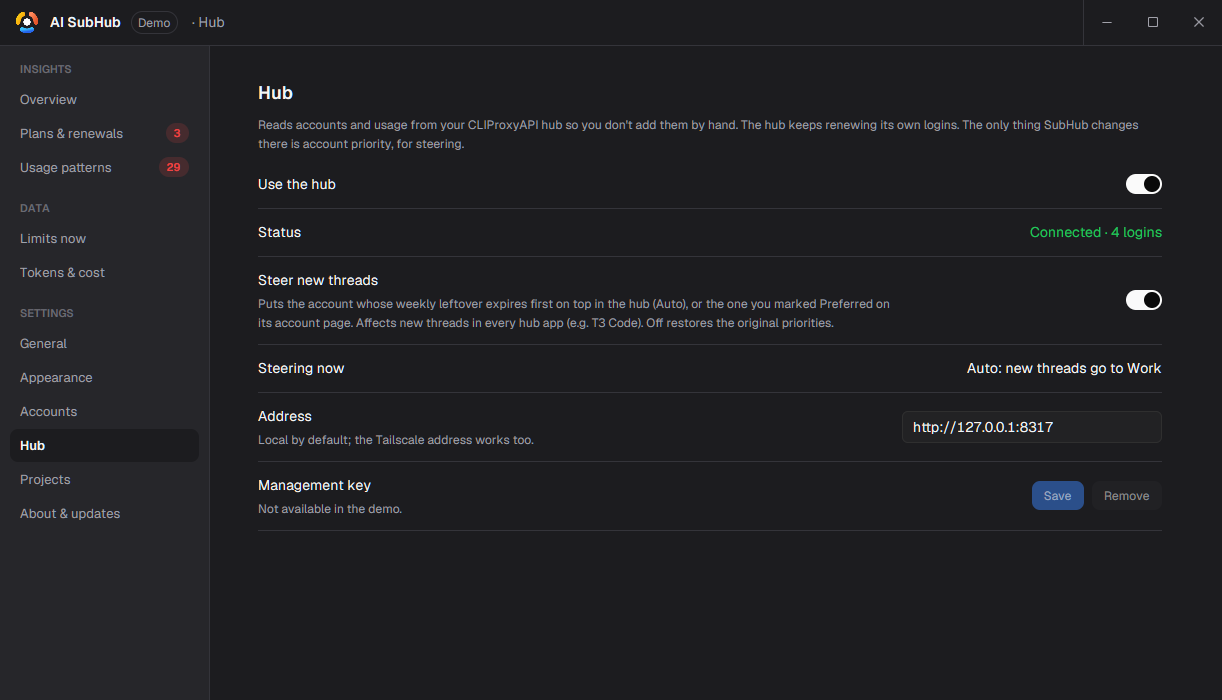
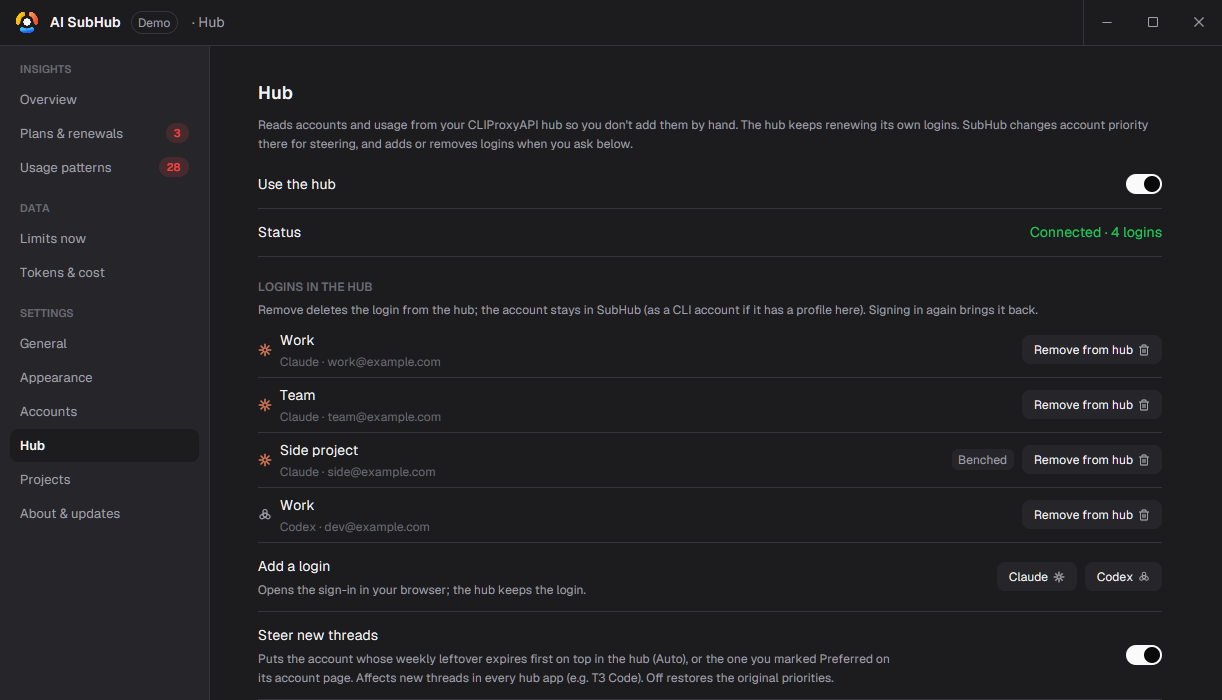
README: new providers and hub logins, fresh screenshots

diff --git a/README.md b/README.md
@@ -23,13 +23,14 @@ AI SubHub shows the usage limits of all your **Claude Code** and **Codex** accou
 - **All limits in one popover.** Click the tray icon for one card per account, with a bar per window, % left (or % used) and the reset time. Stale readings, cooldowns and sign-in problems are shown, not hidden.
 - **Usage on the taskbar.** Small badges next to the tray show up to five accounts at all times (favourites, the one in focus, or automatic), on the main or every taskbar. Hover one for all its limits; drag it to move it. You can switch it off in Appearance.
 - **Several accounts per provider.** Each CLI profile is its own account, with a name, a coloured tag, a plan badge and an optional group. SubHub finds the profiles on your PC and offers to add them.
+- **More than Claude and Codex.** GitHub Copilot (monthly premium requests or AI credits), Cursor (the plan's weekly or monthly usage, Auto and API) and Google Antigravity (5-hour and weekly limits per model group) show up next to them, read from the login already on your PC. For now these three show limits only.
 - **Launch by account and project.** The rocket on a card opens a project folder in Windows Terminal, PowerShell, VS Code or the provider's desktop app, signed in as that account.
 - **Insights.** Whether your plans fit how you work (too big, at the limit, unused), how often you waited for a 5-hour reset while another account was free, upcoming renewals, and where your usage goes by task, project and model.
 - **Warm-up (optional).** Start your 5-hour windows early at a time you choose, so the first reset comes when you usually run out. SubHub suggests a time from your own days; nothing runs until you set it up.
 - **Heads-up before you run out (optional).** A notification about 15 minutes before an account's 5-hour window runs out, when another account still has a fresh one.
 - **Usage statistics.** Tokens and an API cost estimate per day, model and provider, read from the CLIs' local session logs, plus a live board of all limits.
 - **Renewal reminders.** Optionally enter an account's monthly renewal or access end date to get a reminder 7 and 3 days before.
-- **Hub support (optional).** If you run a [CLIProxyAPI](https://github.com/router-for-me/CLIProxyAPI) hub, SubHub lists its logins by itself and can steer new hub threads to the account whose weekly limit expires soonest, or to one you pick.
+- **Hub support (optional).** If you run a [CLIProxyAPI](https://github.com/router-for-me/CLIProxyAPI) hub, SubHub lists its logins by itself, lets you remove one or sign in a new Claude or Codex login there, and can steer new hub threads to the account whose weekly limit expires soonest, or to one you pick.
 - **Updates itself** from GitHub Releases, automatically or when you say so, and shows short patch notes afterwards.
 
 ## The main window
@@ -50,12 +51,16 @@ Open **Statistics** or **Settings** from the tray menu or the popover. Both open
 
 **Data**
 
-- **Limits now:** a live board of every account's session and weekly windows, with % left, reset countdowns and pace. It is useful for picking the account with the most room before a long task.
+- **Limits now:** a live board of every account's windows (5-hour, weekly, monthly and model limits), with % left, reset countdowns and pace. It is useful for picking the account with the most room before a long task.
 - **Tokens & cost:** work tokens (input and output) and an API cost estimate for the past 24 hours or 7, 30 or 90 days, split into input, output and cache, with a daily chart per provider and a table per model. The estimate uses public list prices and shows what the same work would cost on the API, not what you pay for your plan.
 
 | | |
 | --- | --- |
 | ![Limits now: a live board of every account's windows](docs/images/demo-statistics-limits.png) | ![Tokens & cost: work tokens, API estimate, cost by type and a daily chart per provider](docs/images/demo-statistics-usage.png) |
+
+<p align="center">
+  <img src="docs/images/demo-more-providers.png" width="680" alt="Limits now for GitHub Copilot (monthly AI credits), Cursor (weekly, Auto and API) and Google Antigravity (5-hour)">
+</p>
 
 **Export** (the download button in the title bar):
 
@@ -67,15 +72,15 @@ Open **Statistics** or **Settings** from the tray menu or the popover. Both open
 
 - **General:** refresh interval, Warm-up status, the run-out heads-up, what the close button does, Start with Windows, and (under Advanced) the sign-in terminal and CLI paths.
 - **Appearance:** theme, accent colour, % left or % used, plan badges, emails, and the taskbar badges (which accounts, left or right).
-- **Accounts:** all accounts by provider with their source and status. Open an account to rename it, change its tag colour and group, show it on the taskbar, set its renewal date, or sign in again. **Add accounts** lists the CLI profiles found on your PC.
-- **Hub:** connect a CLIProxyAPI hub and turn steering for new threads on or off.
+- **Accounts:** all accounts by provider with their source and status. Open an account to rename it, change its tag colour and group, show it on the taskbar, set its renewal date, or sign in again. **Add accounts** lists the CLI profiles and the Copilot, Cursor and Antigravity logins found on your PC.
+- **Hub:** connect a CLIProxyAPI hub, manage its logins (remove one, or sign in a new Claude or Codex login in your browser) and turn steering for new threads on or off. A login removed from the hub stays in SubHub as a normal CLI account if it has a profile on your PC.
 - **Projects:** the folders that appear in every card's Launch menu, in your order, with the option to hide some.
 - **About & updates:** version, update mode (automatic or manual) and the patch notes.
 
 | | |
 | --- | --- |
 | ![Settings, General: refresh, warm-up, the run-out heads-up and the close button](docs/images/demo-settings-general.png) | ![Settings, Accounts: accounts per provider with source and status](docs/images/demo-settings-accounts.png) |
-| ![Settings, Appearance: theme, accent colour, usage display and taskbar badges](docs/images/demo-settings-appearance.png) | ![Settings, Hub: connection status, steering and the hub address](docs/images/demo-settings-hub.png) |
+| ![Settings, Appearance: theme, accent colour, usage display and taskbar badges](docs/images/demo-settings-appearance.png) | ![Settings, Hub: connection status, the hub's logins with Remove, Add a login and steering](docs/images/demo-settings-hub.png) |
 
 ## Get started
 
@@ -83,7 +88,7 @@ Requires **Windows 11** (x64); Windows 10 may work but is untested. macOS and Li
 
 1. Download `ai-subhub.exe` from the [latest release](https://github.com/wellbrained/ai-subhub/releases/latest) and put it in a folder you keep, for example `%LOCALAPPDATA%\Programs\AI SubHub`. There is no installer, and updates replace the exe in place.
 2. Start it. The exe is not code-signed, so Windows SmartScreen may warn you the first time: **More info → Run anyway**.
-3. On the first start, the window opens on **Add accounts** with the Claude Code and Codex profiles found on your PC (`~\.claude*`, `~\.codex*`, `CLAUDE_CONFIG_DIR`, `CODEX_HOME`). Tick the ones you want. A profile in another place can be added with **Choose a folder manually**.
+3. On the first start, the window opens on **Add accounts** with the Claude Code and Codex profiles found on your PC (`~\.claude*`, `~\.codex*`, `CLAUDE_CONFIG_DIR`, `CODEX_HOME`), plus a Copilot, Cursor or Antigravity login if you have one. Tick the ones you want. A profile in another place can be added with **Choose a folder manually**.
 4. Click the tray icon. If an account says *Sign in needed*, use **Sign in** on its card or settings page; the CLI login opens in a terminal, and the account refreshes when it is done.
 
 **Start with Windows** is opt-in (Settings → General). Closing a window keeps SubHub in the tray; quit it from the tray menu.
@@ -133,4 +138,4 @@ Bug reports and focused pull requests are welcome. Please include your Windows v
 
 The app's font is [Geist](https://github.com/vercel/geist-font) by Vercel, under the SIL Open Font License 1.1 ([crates/subhub-app/assets/fonts/OFL.txt](crates/subhub-app/assets/fonts/OFL.txt)).
 
-AI SubHub is an independent project and is not affiliated with Anthropic or OpenAI.
+AI SubHub is an independent project and is not affiliated with Anthropic, OpenAI, GitHub, Cursor (Anysphere) or Google.

diff --git a/CLAUDE.md b/CLAUDE.md
@@ -11,7 +11,7 @@ AI SubHub, a Windows tray app in Rust + GPUI. It started as a rewrite of the ear
 ## Project rules
 
 - Behavior rules match the C# app: secrets stay in provider-owned profiles/keyrings or Credential Manager, never in `settings.json`, logs or errors; missing data means unavailable; failed/overdue readings stay visibly stale; reset countdowns never refill quotas locally; provider cooldowns are respected and persisted; Claude's undocumented usage endpoint is parsed in one isolated module.
-- The CLIProxyAPI hub: list accounts and read usage through its management API (`api-call` with `$TOKEN$`), never its auth files. The only write is hub steering: each account's credential priority (ADR 0001, refinements); remember and restore original priorities. Never bench, add, sign in or change config.
+- The CLIProxyAPI hub: list accounts and read usage through its management API (`api-call` with `$TOKEN$`), never its auth files. Writes: hub steering, i.e. each account's credential priority (ADR 0001, refinements; remember and restore original priorities), and, only on the owner's click in Settings → Hub, removing a login or starting a Claude/Codex sign-in through the hub's OAuth flow (owner 2026-11-09). Never bench or change config.
 - Own settings file `%LOCALAPPDATA%\AI SubHub\settings.json`; standalone: it never reads the C# app's files (the import was removed, owner 2026-11-07).
 - Main window (Statistics and Settings in one, 2026-11-08): sidebar with Insights / Data / Settings on the left, one content column. Main surface is the tray popover.
 - Version starts at 0.1.0 in `Cargo.toml`; patch bump per deployed change.
